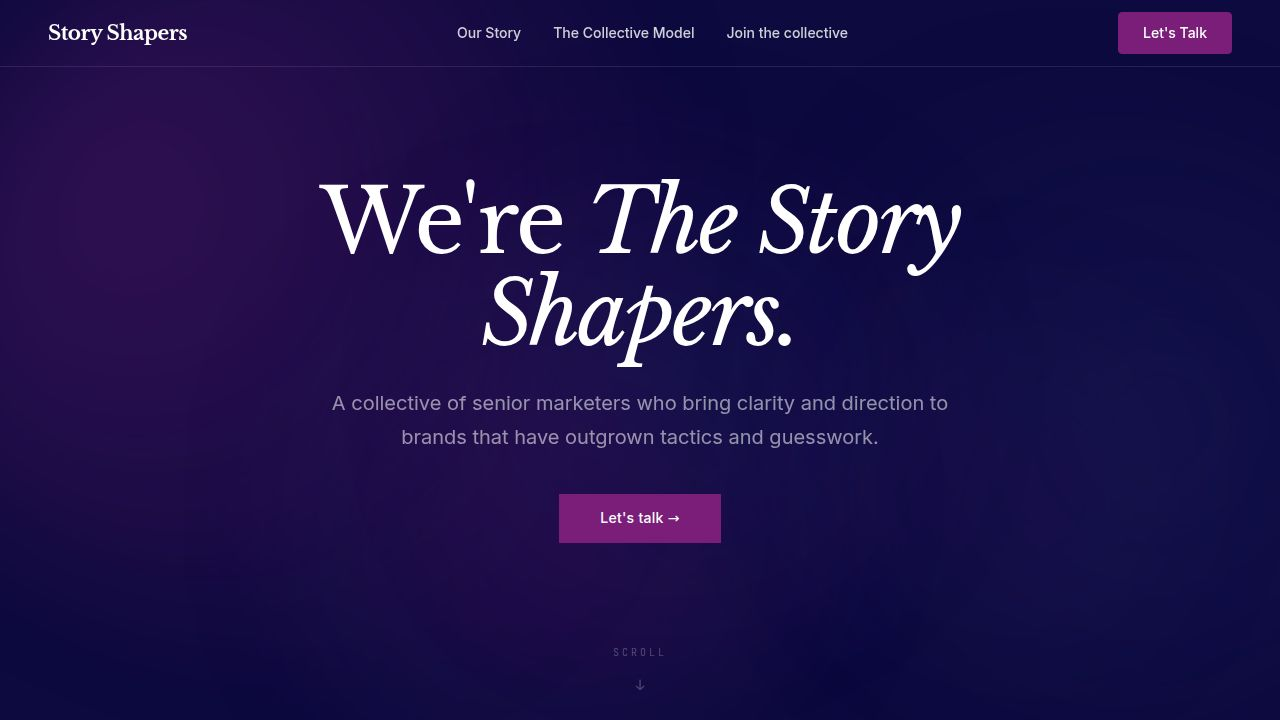
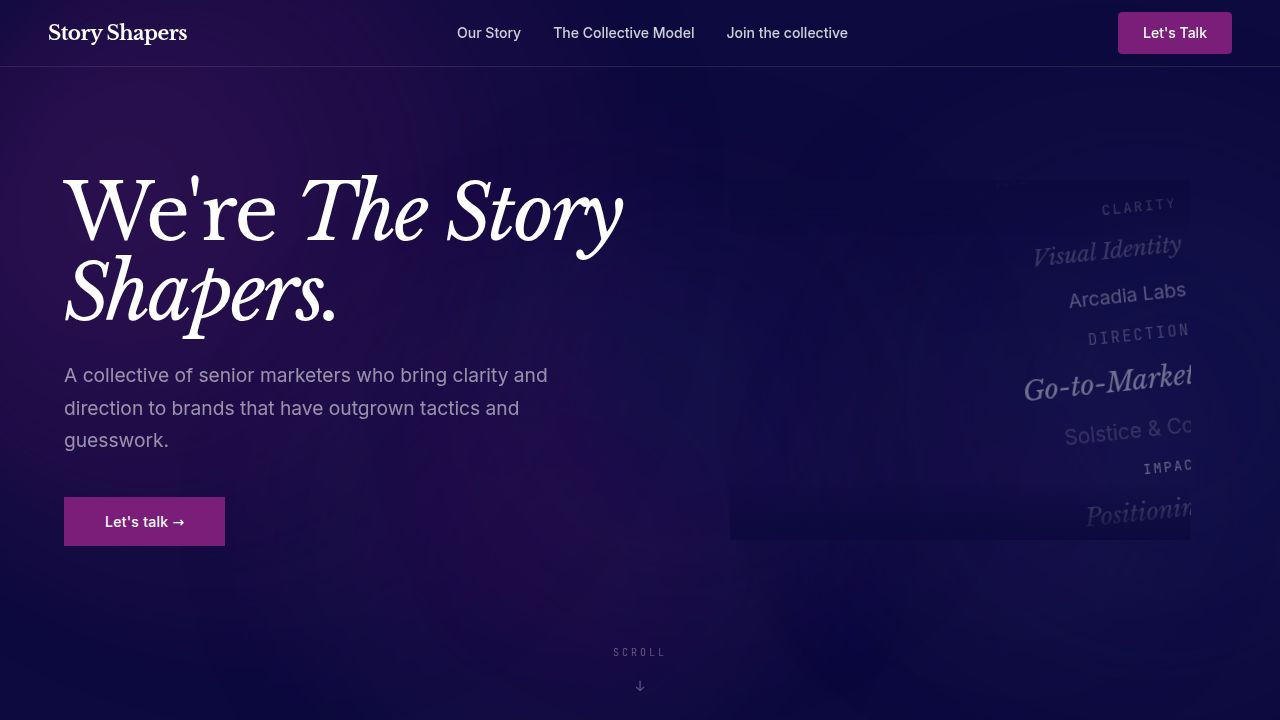
Add scrolling text ticker to the hero section for dynamic content display
Implements a split layout for the Hero component in `Hero.tsx`, introducing a vertical scrolling ticker on the right side to display various text items with dynamic sizing and opacity.

Replit-Commit-Author: Agent
Replit-Commit-Session-Id: 3332d76c-7ebd-44c7-a5af-2bf29f045008
Replit-Commit-Checkpoint-Type: full_checkpoint
Replit-Commit-Event-Id: 3e73070f-4544-4705-8a6a-565ecb56ce03
Replit-Commit-Screenshot-Url: https://storage.googleapis.com/screenshot-production-us-central1/c6ba7a26-e271-4d7a-8513-47016bca494b/3332d76c-7ebd-44c7-a5af-2bf29f045008/mOWjvjP
Replit-Helium-Checkpoint-Created: true

diff --git a/client/src/components/home/Hero.tsx b/client/src/components/home/Hero.tsx
@@ -1,10 +1,61 @@
 import { motion } from "framer-motion";
 import { Link } from "wouter";
 
+const tickerItems = [
+  { text: "Brand Strategy", font: "'Libre Baskerville', serif", style: "italic" },
+  { text: "Northvolt", font: "'Inter', sans-serif", style: "normal" },
+  { text: "NARRATIVE", font: "'JetBrains Mono', monospace", style: "normal" },
+  { text: "Culture Shift", font: "'Libre Baskerville', serif", style: "italic" },
+  { text: "Meridian Health", font: "'Inter', sans-serif", style: "normal" },
+  { text: "CLARITY", font: "'JetBrains Mono', monospace", style: "normal" },
+  { text: "Visual Identity", font: "'Libre Baskerville', serif", style: "italic" },
+  { text: "Arcadia Labs", font: "'Inter', sans-serif", style: "normal" },
+  { text: "DIRECTION", font: "'JetBrains Mono', monospace", style: "normal" },
+  { text: "Go-to-Market", font: "'Libre Baskerville', serif", style: "italic" },
+  { text: "Solstice & Co.", font: "'Inter', sans-serif", style: "normal" },
+  { text: "IMPACT", font: "'JetBrains Mono', monospace", style: "normal" },
+  { text: "Positioning", font: "'Libre Baskerville', serif", style: "italic" },
+  { text: "Vantage Point", font: "'Inter', sans-serif", style: "normal" },
+  { text: "RESONANCE", font: "'JetBrains Mono', monospace", style: "normal" },
+  { text: "Creative Direction", font: "'Libre Baskerville', serif", style: "italic" },
+  { text: "Ember Collective", font: "'Inter', sans-serif", style: "normal" },
+  { text: "MOMENTUM", font: "'JetBrains Mono', monospace", style: "normal" },
+];
+
+const itemOpacities = [0.15, 0.3, 0.2, 0.4, 0.25, 0.35, 0.18, 0.3, 0.22, 0.4, 0.15, 0.35, 0.28, 0.2, 0.38, 0.22, 0.3, 0.18];
+const itemSizes = ["1.1rem", "1.6rem", "0.85rem", "1.3rem", "1.5rem", "0.9rem", "1.4rem", "1.2rem", "0.95rem", "1.7rem", "1.3rem", "0.85rem", "1.5rem", "1.1rem", "0.9rem", "1.4rem", "1.6rem", "1rem"];
+
+function TickerColumn() {
+  const doubled = [...tickerItems, ...tickerItems];
+  return (
+    <div className="flex flex-col items-end gap-4">
+      {doubled.map((item, i) => {
+        const idx = i % tickerItems.length;
+        return (
+          <span
+            key={i}
+            style={{
+              fontFamily: item.font,
+              fontStyle: item.style,
+              fontSize: itemSizes[idx],
+              color: `rgba(255, 255, 255, ${itemOpacities[idx]})`,
+              whiteSpace: "nowrap",
+              lineHeight: 1.4,
+              letterSpacing: item.font.includes("JetBrains") ? "0.15em" : item.font.includes("Libre") ? "-0.01em" : "0",
+            }}
+          >
+            {item.text}
+          </span>
+        );
+      })}
+    </div>
+  );
+}
+
 export function Hero() {
   return (
     <section
-      className="relative flex items-center justify-center overflow-hidden"
+      className="relative flex items-center overflow-hidden"
       style={{
         backgroundColor: "#0C0A3E",
         minHeight: "100vh",
@@ -226,77 +277,118 @@ export function Hero() {
             opacity: 0.85;
           }
         }
+        @keyframes tickerScroll {
+          0% {
+            transform: translateY(0);
+          }
+          100% {
+            transform: translateY(-50%);
+          }
+        }
       `}</style>
 
-      <div className="relative max-w-[900px] mx-auto text-center">
-        <motion.div
-          initial={{ opacity: 0, y: 30 }}
-          animate={{ opacity: 1, y: 0 }}
-          transition={{ duration: 0.8, ease: [0.16, 1, 0.3, 1] }}
-        >
-          <h1
-            style={{
-              fontFamily: "'Libre Baskerville', serif",
-              fontSize: "clamp(2.5rem, 7vw, 5.5rem)",
-              lineHeight: 1.05,
-              letterSpacing: "-0.03em",
-              fontWeight: 400,
-              color: "#FFFFFF",
-              marginBottom: "1.5rem",
-            }}
-            data-testid="text-hero-heading"
+      <div className="relative w-full max-w-[1400px] mx-auto flex flex-col md:flex-row items-center md:items-center gap-12 md:gap-8">
+        <div className="flex-1 md:max-w-[55%]">
+          <motion.div
+            initial={{ opacity: 0, y: 30 }}
+            animate={{ opacity: 1, y: 0 }}
+            transition={{ duration: 0.8, ease: [0.16, 1, 0.3, 1] }}
           >
-            We're{" "}
-            <span className="italic">The Story Shapers.</span>
-          </h1>
-        </motion.div>
+            <h1
+              style={{
+                fontFamily: "'Libre Baskerville', serif",
+                fontSize: "clamp(2.5rem, 6vw, 5rem)",
+                lineHeight: 1.05,
+                letterSpacing: "-0.03em",
+                fontWeight: 400,
+                color: "#FFFFFF",
+                marginBottom: "1.5rem",
+              }}
+              data-testid="text-hero-heading"
+            >
+              We're{" "}
+              <span className="italic">The Story Shapers.</span>
+            </h1>
+          </motion.div>
 
-        <motion.p
-          initial={{ opacity: 0, y: 20 }}
-          animate={{ opacity: 1, y: 0 }}
-          transition={{ duration: 0.8, delay: 0.15, ease: [0.16, 1, 0.3, 1] }}
-          style={{
-            fontFamily: "'Inter', sans-serif",
-            fontSize: "clamp(1rem, 1.8vw, 1.25rem)",
-            lineHeight: 1.7,
-            color: "rgba(255, 255, 255, 0.55)",
-            maxWidth: "680px",
-            margin: "0 auto",
-            marginBottom: "2.5rem",
-          }}
-          data-testid="text-hero-subhead"
-        >
-          A collective of senior marketers who bring clarity and direction to brands that have outgrown tactics and guesswork.
-        </motion.p>
-
-        <motion.div
-          initial={{ opacity: 0, y: 15 }}
-          animate={{ opacity: 1, y: 0 }}
-          transition={{ duration: 0.8, delay: 0.3, ease: [0.16, 1, 0.3, 1] }}
-        >
-          <Link
-            href="/contact#talk"
-            className="inline-block font-medium text-sm transition-all duration-200"
+          <motion.p
+            initial={{ opacity: 0, y: 20 }}
+            animate={{ opacity: 1, y: 0 }}
+            transition={{ duration: 0.8, delay: 0.15, ease: [0.16, 1, 0.3, 1] }}
             style={{
-              backgroundColor: "#7B1E7A",
-              color: "#FFFFFF",
-              padding: "0.85rem 2.5rem",
-              border: "1px solid #7B1E7A",
               fontFamily: "'Inter', sans-serif",
-              letterSpacing: "0.02em",
+              fontSize: "clamp(1rem, 1.6vw, 1.2rem)",
+              lineHeight: 1.7,
+              color: "rgba(255, 255, 255, 0.55)",
+              maxWidth: "540px",
+              marginBottom: "2.5rem",
             }}
-            data-testid="button-lets-talk"
-            onMouseEnter={(e) => {
-              e.currentTarget.style.backgroundColor = "#9B3E9A";
-              e.currentTarget.style.borderColor = "#9B3E9A";
+            data-testid="text-hero-subhead"
+          >
+            A collective of senior marketers who bring clarity and direction to brands that have outgrown tactics and guesswork.
+          </motion.p>
+
+          <motion.div
+            initial={{ opacity: 0, y: 15 }}
+            animate={{ opacity: 1, y: 0 }}
+            transition={{ duration: 0.8, delay: 0.3, ease: [0.16, 1, 0.3, 1] }}
+          >
+            <Link
+              href="/contact#talk"
+              className="inline-block font-medium text-sm transition-all duration-200"
+              style={{
+                backgroundColor: "#7B1E7A",
+                color: "#FFFFFF",
+                padding: "0.85rem 2.5rem",
+                border: "1px solid #7B1E7A",
+                fontFamily: "'Inter', sans-serif",
+                letterSpacing: "0.02em",
+              }}
+              data-testid="button-lets-talk"
+              onMouseEnter={(e) => {
+                e.currentTarget.style.backgroundColor = "#9B3E9A";
+                e.currentTarget.style.borderColor = "#9B3E9A";
+              }}
+              onMouseLeave={(e) => {
+                e.currentTarget.style.backgroundColor = "#7B1E7A";
+                e.currentTarget.style.borderColor = "#7B1E7A";
+              }}
+            >
+              Let's talk &rarr;
+            </Link>
+          </motion.div>
+        </div>
+
+        <motion.div
+          className="flex-1 md:max-w-[40%] relative overflow-hidden"
+          style={{ height: "clamp(300px, 50vh, 500px)" }}
+          initial={{ opacity: 0, x: 30 }}
+          animate={{ opacity: 1, x: 0 }}
+          transition={{ duration: 1, delay: 0.4, ease: [0.16, 1, 0.3, 1] }}
+          data-testid="hero-ticker"
+        >
+          <div
+            className="absolute inset-0 pointer-events-none z-10"
+            style={{
+              background: "linear-gradient(to bottom, #0C0A3E 0%, transparent 15%, transparent 85%, #0C0A3E 100%)",
             }}
-            onMouseLeave={(e) => {
-              e.currentTarget.style.backgroundColor = "#7B1E7A";
-              e.currentTarget.style.borderColor = "#7B1E7A";
+          />
+          <div
+            style={{
+              transform: "rotate(-6deg)",
+              transformOrigin: "center center",
+              height: "120%",
+              marginTop: "-10%",
             }}
           >
-            Let's talk &rarr;
-          </Link>
+            <div
+              style={{
+                animation: "tickerScroll 25s linear infinite",
+              }}
+            >
+              <TickerColumn />
+            </div>
+          </div>
         </motion.div>
       </div>
 
